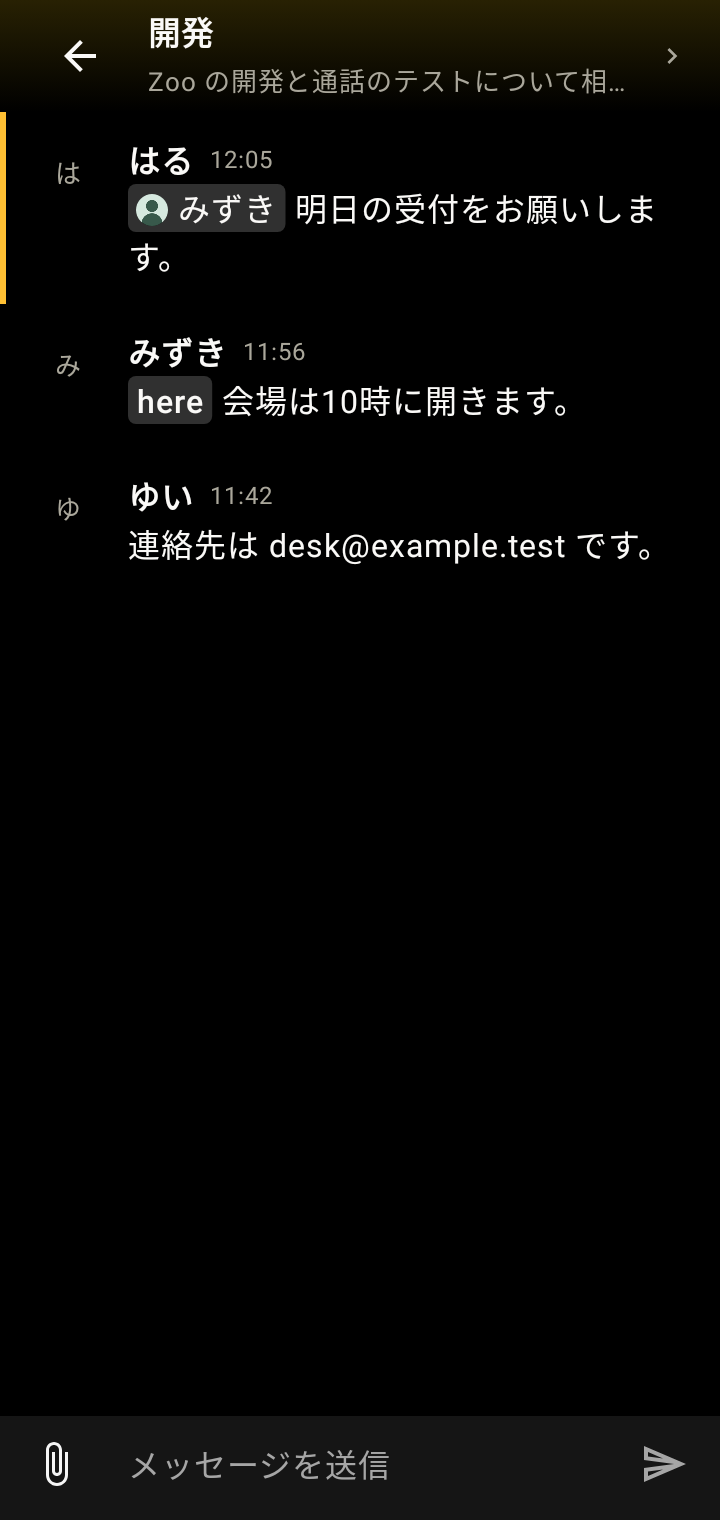
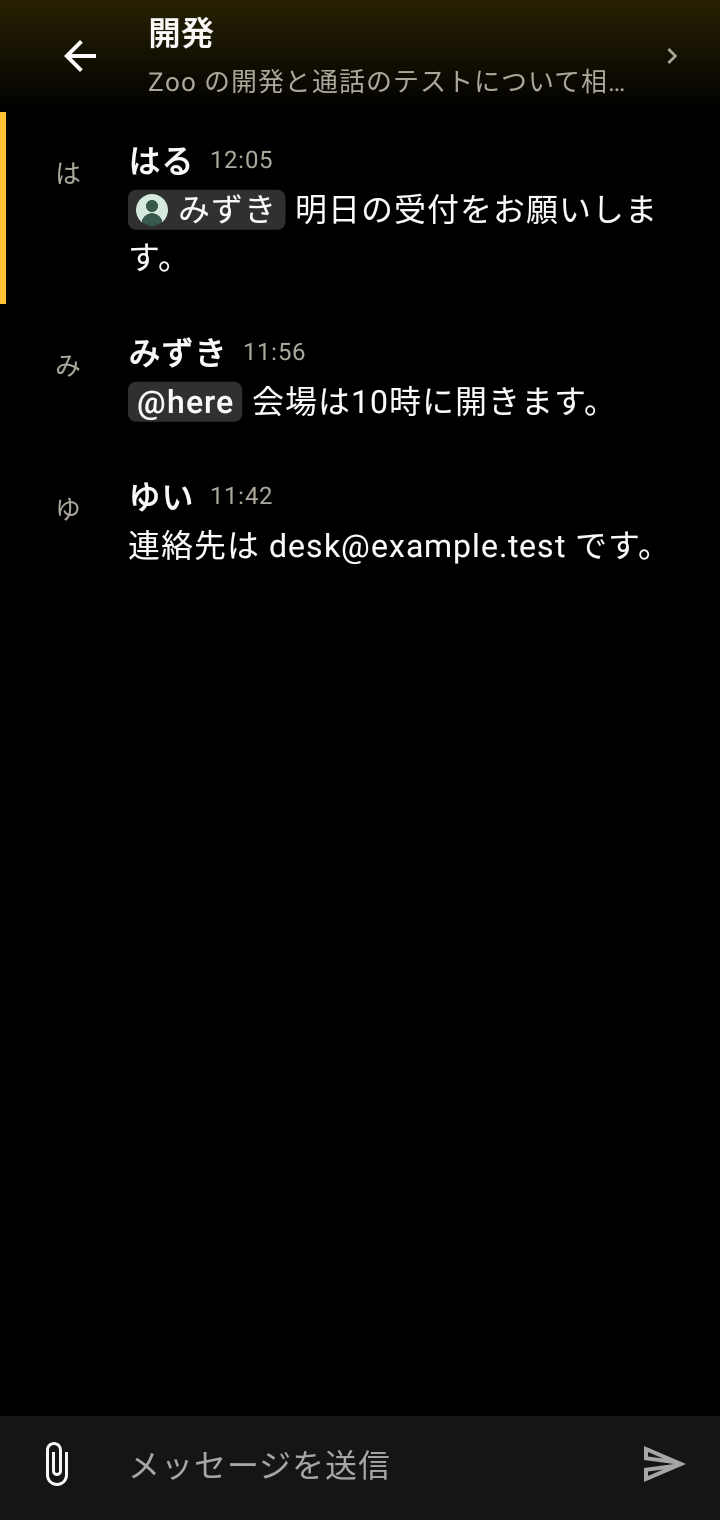
メンションの縦位置と @here のCompose画像を更新

Changed region(s): [[0.1833, 0.2474, 0.825, 0.2783]]

diff --git a/docs/images/android-design/review/README.md b/docs/images/android-design/review/README.md
@@ -2,7 +2,7 @@
 
 各組は左が変更前、右が変更後。新規の検証画像は変更後のみ。投稿と通知には検証用データを使用。
 
-チャンネルのメンション表示（左がライト、右がダーク）。上から個人宛て、here 宛て、メールアドレスを含む通常の投稿。
+チャンネルのメンション表示（左がライト、右がダーク）。上から個人宛て、`@here` 宛て、メールアドレスを含む通常の投稿。
 
 ![メンション表示](./mentions.png)
 
